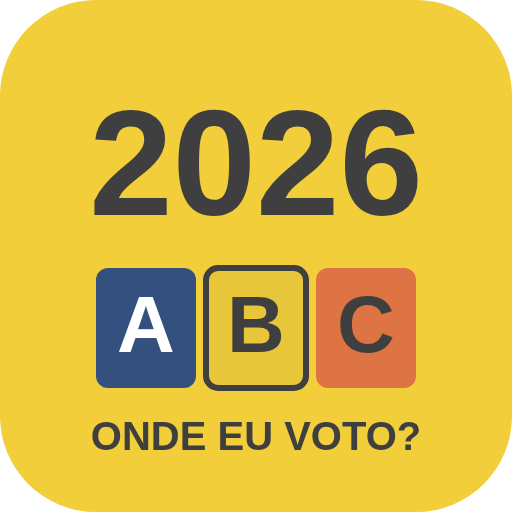
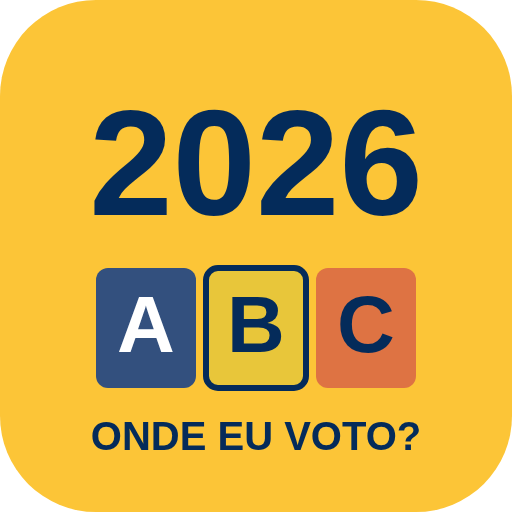
App: data DD/MM/AAAA nos dois menus e paleta Eleições 2026
- Campo de nascimento vira texto com máscara DD/MM/AAAA (aceita colar
  23101967 ou 23.10.1967) e mensagem própria para data inexistente.
- Página da equipe ganha o mesmo campo, opcional, que filtra a lista e
  separa homônimos.
- Paleta trocada para a identidade do TSE: fundo amarelo, navy em texto e
  botão, azuis em rótulos, laranja em erros, verde na faixa da equipe.
  Cores das portas A/B/C inalteradas. Ícones regerados.
- Ponta a ponta: 11 verificações, com data inválida e filtro por data.

Claude-Session: https://claude.ai/code/session_01Ev96h94nZK9u4NdguE3zDY

diff --git a/app/public/estilo.css b/app/public/estilo.css
@@ -1,67 +1,74 @@
+/* Paleta: identidade Eleições 2026 (TSE, Identidadevisual/). As cores das portas A/B/C
+   ficam em comum.js (COR_LETRA) e são as v2 das peças de sinalização: não mudar aqui. */
 :root {
-  --creme: #F2EFE2; --amarelo: #F2CE3A; --amarelo-escuro: #E8B800; --azul: #5A8CAA;
-  --verde: #648232; --cinza: #3F3F3F; --cinza-claro: #9A9483; --linha: #D9D4C4; --branco: #FFFFFF;
-  --erro: #B3261E;
+  --amarelo: #FCC537; --amarelo-claro: #FEE149; --amarelo-escuro: #EAB832; --laranja: #EF9A3E;
+  --azul-claro: #478BAD; --azul: #6486A7; --azul-escuro: #576C96; --navy: #042B5A;
+  --verde: #98BD31; --verde-escuro: #557372; --branco: #FFFFFF;
+  --texto: var(--navy); --texto-suave: #4A5F7A; --linha: #DCE3EC; --campo: #F4F7FA;
 }
 * { box-sizing: border-box; }
 html { -webkit-text-size-adjust: 100%; }
 body {
-  margin: 0; background: var(--creme); color: var(--cinza);
+  margin: 0; background: var(--amarelo); color: var(--texto);
   font-family: system-ui, -apple-system, "Segoe UI", Roboto, "Helvetica Neue", Arial, sans-serif;
   font-size: 17px; line-height: 1.45;
 }
-header.topo {
-  background: var(--amarelo); padding: 14px 16px 12px; display: flex; align-items: center; gap: 12px;
-}
-header.topo .marca { font-weight: 900; font-size: 22px; letter-spacing: .5px; line-height: 1; }
-header.topo .marca small { display: block; font-weight: 700; font-size: 12px; letter-spacing: 1px; color: #5F5A2E; margin-top: 3px; }
+header.topo { background: var(--amarelo); color: var(--navy); padding: 16px 16px 10px; display: flex; align-items: center; gap: 12px; }
+header.topo .marca { font-weight: 900; font-size: 24px; letter-spacing: .5px; line-height: 1; }
+header.topo .marca small { display: block; font-weight: 800; font-size: 12px; letter-spacing: 1.5px; color: var(--azul-claro); margin-top: 4px; }
 header.topo .onde { margin-left: auto; text-align: right; font-weight: 700; font-size: 14px; }
+header.topo.equipe { background: var(--navy); color: var(--amarelo); }
+header.topo.equipe .marca small { color: var(--branco); }
 main { max-width: 640px; margin: 0 auto; padding: 16px; }
-h1 { font-size: 26px; margin: 8px 0 4px; line-height: 1.15; }
-p.sub { margin: 0 0 16px; color: #5F5A4E; }
-form.consulta { background: var(--branco); border-radius: 12px; padding: 16px; box-shadow: 0 1px 3px rgba(0,0,0,.08); }
-label { display: block; font-weight: 700; font-size: 14px; margin: 10px 0 4px; }
-input[type=text], input[type=date], input[type=password], input[type=search] {
-  width: 100%; font: inherit; font-size: 18px; padding: 12px; border: 2px solid var(--linha); border-radius: 8px; background: #FFF; color: var(--cinza);
+h1 { font-size: 30px; margin: 8px 0 4px; line-height: 1.1; color: var(--navy); font-weight: 900; }
+p.sub { margin: 0 0 16px; color: var(--navy); }
+form.consulta { background: var(--branco); border-radius: 14px; padding: 16px; box-shadow: 0 2px 6px rgba(4,43,90,.15); }
+label { display: block; font-weight: 800; font-size: 14px; margin: 10px 0 4px; color: var(--navy); }
+input[type=text], input[type=password], input[type=search] {
+  width: 100%; font: inherit; font-size: 18px; padding: 12px; border: 2px solid var(--linha); border-radius: 8px; background: var(--campo); color: var(--navy);
 }
-input:focus { outline: none; border-color: var(--azul); }
+input::placeholder { color: #8A9AAE; }
+input:focus { outline: none; border-color: var(--azul-claro); background: var(--branco); }
 button.principal {
-  width: 100%; margin-top: 14px; font: inherit; font-weight: 800; font-size: 18px; padding: 14px;
-  background: var(--cinza); color: var(--branco); border: 0; border-radius: 8px; cursor: pointer;
+  width: 100%; margin-top: 14px; font: inherit; font-weight: 900; font-size: 18px; padding: 14px;
+  background: var(--navy); color: var(--branco); border: 0; border-radius: 8px; cursor: pointer;
 }
 button.principal:disabled { opacity: .5; }
-button.secundario { font: inherit; font-size: 14px; font-weight: 700; padding: 8px 12px; background: transparent; border: 2px solid var(--linha); border-radius: 8px; color: var(--cinza); cursor: pointer; }
-.dica { font-size: 14px; color: var(--cinza-claro); margin: 6px 0 0; }
-.aviso { background: #FFF3C4; border-left: 4px solid var(--amarelo-escuro); padding: 10px 12px; border-radius: 6px; margin: 14px 0; font-size: 15px; }
-.aviso.erro { background: #FBE9E7; border-color: var(--erro); }
-.aviso.info { background: #E3EEF5; border-color: var(--azul); }
+button.secundario { font: inherit; font-size: 14px; font-weight: 800; padding: 8px 12px; background: var(--branco); border: 2px solid var(--navy); border-radius: 8px; color: var(--navy); cursor: pointer; }
+.dica { font-size: 14px; color: var(--texto-suave); margin: 6px 0 0; }
+.aviso { background: var(--amarelo-claro); border-left: 5px solid var(--amarelo-escuro); color: var(--navy); padding: 10px 12px; border-radius: 8px; margin: 14px 0; font-size: 15px; }
+.aviso.erro { background: var(--branco); border-color: var(--laranja); }
+.aviso.info { background: var(--branco); border-color: var(--azul-claro); }
+.aviso a { color: var(--azul-claro); font-weight: 700; }
 #resultado { margin-top: 18px; }
-.cartao { background: var(--branco); border-radius: 12px; overflow: hidden; box-shadow: 0 1px 3px rgba(0,0,0,.08); border-top: 8px solid var(--cor); }
+.cartao { background: var(--branco); border-radius: 14px; overflow: hidden; box-shadow: 0 2px 6px rgba(4,43,90,.15); border-top: 8px solid var(--cor); }
 .cartao-letra { display: flex; align-items: center; gap: 16px; padding: 16px; background: var(--cor); color: var(--cor-texto); }
 .cartao-letra .letra { font-size: 72px; font-weight: 900; line-height: 1; width: 84px; text-align: center; }
 .cartao-letra .rotulo { opacity: .85; }
 .cartao-linha { display: grid; grid-template-columns: 1fr 1fr 1.4fr; gap: 12px; padding: 14px 16px; }
-.rotulo { font-size: 12px; text-transform: uppercase; letter-spacing: 1px; font-weight: 700; }
+.rotulo { font-size: 12px; text-transform: uppercase; letter-spacing: 1px; font-weight: 800; }
+.cartao-linha .rotulo { color: var(--azul); }
 .grande { font-size: 26px; font-weight: 900; line-height: 1.1; }
-.medio { font-size: 16px; font-weight: 700; line-height: 1.3; }
-.cartao-eleitor { padding: 12px 16px 0; font-size: 15px; }
+.medio { font-size: 16px; font-weight: 800; line-height: 1.3; }
+.cartao-eleitor { padding: 12px 16px 0; font-size: 15px; color: var(--navy); }
 .cartao-eleitor b { font-size: 18px; }
-ol.passos { list-style: none; counter-reset: passo; padding: 0; margin: 16px 0; }
-ol.passos li { counter-increment: passo; display: grid; grid-template-columns: 36px 1fr; gap: 4px 10px; padding: 10px 0; border-bottom: 1px solid var(--linha); }
-ol.passos li::before { content: counter(passo); grid-row: span 2; width: 30px; height: 30px; border-radius: 50%; background: var(--cinza); color: #FFF; font-weight: 800; display: flex; align-items: center; justify-content: center; }
-ol.passos li b { font-size: 13px; text-transform: uppercase; letter-spacing: .5px; color: var(--cinza-claro); }
-ol.passos li span { font-size: 16px; }
-.mapa { background: var(--branco); border-radius: 12px; padding: 8px; }
+ol.passos { list-style: none; counter-reset: passo; padding: 0 16px; margin: 16px 0; background: var(--branco); border-radius: 14px; box-shadow: 0 2px 6px rgba(4,43,90,.15); }
+ol.passos li { counter-increment: passo; display: grid; grid-template-columns: 36px 1fr; gap: 4px 10px; padding: 12px 0; border-bottom: 1px solid var(--linha); }
+ol.passos li:last-child { border-bottom: 0; }
+ol.passos li::before { content: counter(passo); grid-row: span 2; width: 30px; height: 30px; border-radius: 50%; background: var(--navy); color: var(--amarelo); font-weight: 900; display: flex; align-items: center; justify-content: center; }
+ol.passos li b { font-size: 13px; text-transform: uppercase; letter-spacing: .5px; color: var(--azul); }
+ol.passos li span { font-size: 16px; color: var(--navy); }
+.mapa { background: var(--branco); border-radius: 14px; padding: 8px; box-shadow: 0 2px 6px rgba(4,43,90,.15); }
 .mapa svg { width: 100%; height: auto; display: block; }
-.nota { font-size: 15px; background: #FFF; border-radius: 8px; padding: 10px 12px; }
-footer { max-width: 640px; margin: 24px auto; padding: 0 16px 32px; font-size: 13px; color: var(--cinza-claro); }
-footer a { color: var(--azul); }
+.nota { font-size: 15px; background: var(--branco); border-left: 5px solid var(--verde); border-radius: 8px; padding: 10px 12px; color: var(--navy); }
+footer { max-width: 640px; margin: 24px auto; padding: 0 16px 32px; font-size: 13px; color: var(--navy); }
+footer a { color: var(--navy); font-weight: 700; }
 .lista-equipe { list-style: none; padding: 0; margin: 12px 0; }
-.lista-equipe li { background: #FFF; border-radius: 8px; padding: 10px 12px; margin-bottom: 6px; display: grid; grid-template-columns: 1fr auto; gap: 4px 10px; align-items: center; cursor: pointer; border-left: 6px solid var(--linha); }
-.lista-equipe li .nome { font-weight: 800; }
-.lista-equipe li .meta { font-size: 14px; color: #5F5A4E; grid-column: 1; }
+.lista-equipe li { background: var(--branco); border-radius: 8px; padding: 10px 12px; margin-bottom: 6px; display: grid; grid-template-columns: 1fr auto; gap: 4px 10px; align-items: center; cursor: pointer; border-left: 6px solid var(--linha); }
+.lista-equipe li .nome { font-weight: 900; color: var(--navy); }
+.lista-equipe li .meta { font-size: 14px; color: var(--texto-suave); grid-column: 1; }
 .lista-equipe li .letra-mini { font-size: 22px; font-weight: 900; padding: 2px 10px; border-radius: 6px; grid-row: span 2; }
-.faixa-equipe { background: var(--cinza); color: #FFF; font-size: 13px; padding: 6px 16px; text-align: center; }
+.faixa-equipe { background: var(--verde-escuro); color: var(--branco); font-size: 13px; font-weight: 700; padding: 6px 16px; text-align: center; }
 @media (max-width: 400px) {
   .cartao-linha { grid-template-columns: 1fr 1fr; }
   .cartao-linha > :last-child { grid-column: span 2; }

diff --git a/app/public/comum.js b/app/public/comum.js
@@ -47,6 +47,20 @@ const OEV = (() => {
     return `${a}-${String(me).padStart(2, "0")}-${String(d).padStart(2, "0")}`;
   }
 
+  /* Máscara DD/MM/AAAA num <input type="text">: só dígitos, barras inseridas ao digitar; aceita colar 23101967 ou 23.10.1967. */
+  function mascaraData(el) {
+    const aplica = () => {
+      const d = el.value.replace(/\D/g, "").slice(0, 8);
+      let v = d;
+      if (d.length > 4) v = `${d.slice(0, 2)}/${d.slice(2, 4)}/${d.slice(4)}`;
+      else if (d.length > 2) v = `${d.slice(0, 2)}/${d.slice(2)}`;
+      if (v !== el.value) el.value = v;
+    };
+    el.addEventListener("input", aplica);
+    el.addEventListener("blur", aplica);
+    return el;
+  }
+
   function b64url(bytes) {
     let s = "";
     for (const b of new Uint8Array(bytes)) s += String.fromCharCode(b);
@@ -94,11 +108,12 @@ const OEV = (() => {
   }
 
   /* Busca da equipe: cada palavra digitada tem de aparecer como prefixo de alguma palavra do nome. */
-  function buscaEquipe(eleitores, texto, limite = 30) {
+  function buscaEquipe(eleitores, texto, limite = 30, dataISO = "") {
     const termos = normalizaNome(texto).split(" ").filter(Boolean);
-    if (!termos.length) return [];
+    if (!termos.length && !dataISO) return [];
     const achados = [];
     for (const e of eleitores) {
+      if (dataISO && e.d !== dataISO) continue;
       const palavras = e.n.split(" ");
       if (termos.every((t) => palavras.some((p) => p.startsWith(t)))) {
         achados.push(e);
@@ -137,12 +152,12 @@ const OEV = (() => {
     const X = (m) => M + m * s;
     const YH = (y) => M + (HALL_D - y) * s; // y do salão cresce para o norte
     const ringTop = M + (HALL_D + APRON) * s;
-    const cor = COR_LETRA[rota.letra], fraco = "#D9D4C4", texto = "#3F3F3F";
+    const cor = COR_LETRA[rota.letra], fraco = "#C9D6E3", texto = "#042B5A", suave = "#6486A7";
     const p = [];
     p.push(`<svg xmlns="http://www.w3.org/2000/svg" viewBox="0 0 ${W} ${H}" role="img" aria-label="Esquema do caminho até a seção ${rota.secao}">`);
     // Hall 2
     p.push(`<rect x="${X(0)}" y="${YH(HALL_D)}" width="${HALL_W * s}" height="${HALL_D * s}" fill="#FFFFFF" stroke="${texto}" stroke-width="1.5"/>`);
-    p.push(`<text x="${X(HALL_W / 2)}" y="${YH(HALL_D / 2)}" text-anchor="middle" font-size="11" fill="#9A9483">HALL 2</text>`);
+    p.push(`<text x="${X(HALL_W / 2)}" y="${YH(HALL_D / 2)}" text-anchor="middle" font-size="11" fill="${suave}">HALL 2</text>`);
     // paredes com mesas
     const paredes = {
       oeste: [X(0), YH(HALL_D), 6, HALL_D * s],
@@ -167,7 +182,7 @@ const OEV = (() => {
     const portas = { S2: [7.6, "saída", null], S4: [15.8, "A", "A"], S5: [22.0, "B", "B"], S6: [28.2, "C", "C"], S7: [33.0, "pref.", null], S8: [40.0, "saída", null] };
     for (const [id, [x, rot, letra]] of Object.entries(portas)) {
       const ativa = id === rota.porta;
-      const fill = ativa ? cor : letra ? "#F2EFE2" : fraco;
+      const fill = ativa ? cor : letra ? "#F4F7FA" : fraco;
       p.push(`<rect x="${X(x) - 6}" y="${YH(0) - 4}" width="12" height="8" fill="${fill}" stroke="${texto}" stroke-width="${ativa ? 1.5 : 0.5}"/>`);
       p.push(`<text x="${X(x)}" y="${YH(0) + 16}" text-anchor="middle" font-size="${ativa ? 11 : 8}" font-weight="${ativa ? 800 : 400}" fill="${texto}">${id} ${esc(rot)}</text>`);
     }
@@ -182,16 +197,16 @@ const OEV = (() => {
     p.push(`<rect x="${X(RING_X)}" y="${ringTop}" width="${RING_W * s}" height="${RING_D * s}" fill="#FFFFFF" stroke="${texto}" stroke-width="1.5" stroke-dasharray="4 3"/>`);
     for (const [letra, x] of Object.entries(zonaX)) {
       const ativa = letra === rota.letra;
-      p.push(`<rect x="${X(x)}" y="${ringTop}" width="${zonaLarg * s}" height="${(RING_D - 3) * s}" fill="${ativa ? cor : "#F2EFE2"}" fill-opacity="${ativa ? 0.9 : 1}" stroke="${fraco}"/>`);
+      p.push(`<rect x="${X(x)}" y="${ringTop}" width="${zonaLarg * s}" height="${(RING_D - 3) * s}" fill="${ativa ? cor : "#F4F7FA"}" fill-opacity="${ativa ? 0.9 : 1}" stroke="${fraco}"/>`);
       for (let i = 1; i < 6; i++) p.push(`<line x1="${X(x)}" x2="${X(x + zonaLarg)}" y1="${ringTop + i * ((RING_D - 3) * s) / 6}" y2="${ringTop + i * ((RING_D - 3) * s) / 6}" stroke="${ativa ? "#FFFFFF" : fraco}" stroke-opacity="0.6"/>`);
-      p.push(`<text x="${X(x + zonaLarg / 2)}" y="${ringTop + (RING_D - 3) * s / 2}" text-anchor="middle" dominant-baseline="middle" font-size="26" font-weight="800" fill="${ativa ? COR_TEXTO_LETRA[letra] : "#B8B29E"}">${letra}</text>`);
+      p.push(`<text x="${X(x + zonaLarg / 2)}" y="${ringTop + (RING_D - 3) * s / 2}" text-anchor="middle" dominant-baseline="middle" font-size="26" font-weight="800" fill="${ativa ? COR_TEXTO_LETRA[letra] : "#9DB0C4"}">${letra}</text>`);
     }
     // corredor de chegada (leste) e trecho de fundo
-    p.push(`<rect x="${X(RING_X + RING_W - 3)}" y="${ringTop}" width="${3 * s}" height="${RING_D * s}" fill="#F7F5EC"/>`);
-    p.push(`<rect x="${X(RING_X)}" y="${ringTop + (RING_D - 3) * s}" width="${RING_W * s}" height="${3 * s}" fill="#F7F5EC"/>`);
+    p.push(`<rect x="${X(RING_X + RING_W - 3)}" y="${ringTop}" width="${3 * s}" height="${RING_D * s}" fill="#EEF3F8"/>`);
+    p.push(`<rect x="${X(RING_X)}" y="${ringTop + (RING_D - 3) * s}" width="${RING_W * s}" height="${3 * s}" fill="#EEF3F8"/>`);
     p.push(`<path d="M ${X(RING_X + RING_W - 1.5)} ${ringTop + 4} L ${X(RING_X + RING_W - 1.5)} ${ringTop + (RING_D - 1.5) * s} L ${X(zx + zonaLarg / 2)} ${ringTop + (RING_D - 1.5) * s} L ${X(zx + zonaLarg / 2)} ${ringTop + (RING_D - 3) * s - 2}" stroke="${texto}" stroke-width="1.5" fill="none" stroke-dasharray="3 3"/>`);
     p.push(`<text x="${X(RING_X + RING_W - 1.5)}" y="${ringTop - 4}" text-anchor="middle" font-size="9" fill="${texto}">entrada ▼</text>`);
-    p.push(`<text x="${X(HALL_W / 2)}" y="${H - 6}" text-anchor="middle" font-size="9" fill="#9A9483">Ring 3 (pátio de fila) · esquema sem escala · norte para cima</text>`);
+    p.push(`<text x="${X(HALL_W / 2)}" y="${H - 6}" text-anchor="middle" font-size="9" fill="${suave}">Ring 3 (pátio de fila) · esquema sem escala · norte para cima</text>`);
     p.push(`</svg>`);
     return p.join("");
   }
@@ -238,7 +253,7 @@ const OEV = (() => {
     }
   }
 
-  return { normalizaNome, chavesNome, normalizaData, hashPublico, consultaPublica, decifraEquipe, buscaEquipe,
+  return { normalizaNome, chavesNome, normalizaData, mascaraData, hashPublico, consultaPublica, decifraEquipe, buscaEquipe,
            carregaJSON, esc, formataData, formataTitulo, desenhaMapa, renderRota, rotaDaSecao, registraSW, COR_LETRA };
 })();
 

diff --git a/app/public/equipe/index.html b/app/public/equipe/index.html
@@ -5,14 +5,14 @@
 <meta name="viewport" content="width=device-width, initial-scale=1">
 <title>Equipe · Onde eu voto? · Dublin 2026</title>
 <meta name="robots" content="noindex">
-<meta name="theme-color" content="#3F3F3F">
+<meta name="theme-color" content="#042B5A">
 <link rel="manifest" href="../manifest.webmanifest">
 <link rel="icon" href="../icones/icone.svg" type="image/svg+xml">
 <link rel="stylesheet" href="../estilo.css">
 </head>
 <body>
-<header class="topo" style="background:#3F3F3F;color:#FFF">
-  <div class="marca">ELEIÇÕES 2026<small style="color:#F2CE3A">EQUIPE · P0 E MESA</small></div>
+<header class="topo equipe">
+  <div class="marca">ELEIÇÕES 2026<small>EQUIPE · P0 E MESA</small></div>
   <div class="onde" id="onde">Dublin · RDS Hall 2</div>
 </header>
 <div class="faixa-equipe">Voluntário orienta, não decide: identificação é do mesário, com documento oficial com foto.</div>
@@ -35,6 +35,8 @@
     <form class="consulta" id="form-busca" autocomplete="off" onsubmit="return false">
       <label for="busca">Nome do eleitor (qualquer parte)</label>
       <input type="search" id="busca" autocapitalize="characters" autocorrect="off" spellcheck="false" placeholder="ex.: maria silva">
+      <label for="busca-data">Data de nascimento (opcional, separa homônimos)</label>
+      <input type="text" id="busca-data" inputmode="numeric" placeholder="DD/MM/AAAA" maxlength="10">
       <p class="dica" id="contagem"></p>
     </form>
     <ul class="lista-equipe" id="lista"></ul>
@@ -99,9 +101,11 @@
   }
 
   let ultimo = null;
-  $("busca").addEventListener("input", () => {
+  OEV.mascaraData($("busca-data"));
+  function busca() {
     const texto = $("busca").value;
-    const achados = OEV.buscaEquipe(eleitores, texto);
+    const dataISO = OEV.normalizaData($("busca-data").value);
+    const achados = OEV.buscaEquipe(eleitores, texto, 30, dataISO);
     $("lista").innerHTML = achados.map((e, i) => {
       const cor = OEV.COR_LETRA[(rotas.secoes[e.s] || {}).letra] || "#D9D4C4";
       return `<li data-i="${i}" style="border-left-color:${cor}"><span class="nome">${OEV.esc(e.o || e.n)}</span>
@@ -109,9 +113,11 @@
         <span class="meta">nasc. ${OEV.esc(OEV.formataData(e.d))} · seção ${OEV.esc(e.s)} · título ${OEV.esc(OEV.formataTitulo(e.t))}</span></li>`;
     }).join("");
     ultimo = achados;
-    $("contagem").textContent = texto.trim() ? (achados.length ? `${achados.length} resultado(s)${achados.length >= 30 ? " (mostrando os 30 primeiros; digite mais)" : ""}` : "Nenhum eleitor com esse nome. Confira a grafia ou use o e-Título.") : `${eleitores.length.toLocaleString("pt-BR")} eleitores na lista.`;
+    $("contagem").textContent = (texto.trim() || dataISO) ? (achados.length ? `${achados.length} resultado(s)${achados.length >= 30 ? " (mostrando os 30 primeiros; digite mais)" : ""}` : "Nenhum eleitor com esse nome. Confira a grafia ou use o e-Título.") : `${eleitores.length.toLocaleString("pt-BR")} eleitores na lista.`;
     if (achados.length === 1) mostraEleitor(achados[0]); else $("resultado").innerHTML = "";
-  });
+  }
+  $("busca").addEventListener("input", busca);
+  $("busca-data").addEventListener("input", busca);
   $("lista").addEventListener("click", (ev) => {
     const li = ev.target.closest("li[data-i]");
     if (li && ultimo) mostraEleitor(ultimo[+li.dataset.i]);

diff --git a/app/public/index.html b/app/public/index.html
@@ -5,7 +5,7 @@
 <meta name="viewport" content="width=device-width, initial-scale=1">
 <title>Onde eu voto? · Eleições 2026 · Dublin</title>
 <meta name="description" content="Descubra sua seção, sua fila e sua porta no RDS Hall 2 antes de sair de casa.">
-<meta name="theme-color" content="#F2CE3A">
+<meta name="theme-color" content="#FCC537">
 <link rel="manifest" href="./manifest.webmanifest">
 <link rel="icon" href="./icones/icone.svg" type="image/svg+xml">
 <link rel="apple-touch-icon" href="./icones/icone-192.png">
@@ -28,7 +28,7 @@
     <input type="text" id="nome" name="nome" autocapitalize="characters" autocorrect="off" spellcheck="false" required inputmode="text" placeholder="como está no título de eleitor">
     <p class="dica" id="dica-nome"></p>
     <label for="fator" id="rotulo-fator">Data de nascimento</label>
-    <input type="date" id="fator" name="fator" required min="1900-01-01" max="2010-12-31">
+    <input type="text" id="fator" name="fator" required inputmode="numeric" placeholder="DD/MM/AAAA" maxlength="10" autocomplete="bday">
     <button class="principal" id="botao" type="submit" disabled>Consultar</button>
   </form>
 
@@ -62,9 +62,9 @@
     $("link-etitulo").href = config.link_etitulo;
     $("rotulo-fator").textContent = config.rotulo_fator[indice.fator];
     if (indice.fator === "mae") {
-      const novo = document.createElement("input");
-      novo.type = "text"; novo.id = "fator"; novo.name = "fator"; novo.required = true; novo.autocapitalize = "characters";
-      $("fator").replaceWith(novo);
+      $("fator").placeholder = "nome completo da mãe"; $("fator").inputMode = "text"; $("fator").maxLength = 120; $("fator").autocapitalize = "characters";
+    } else {
+      OEV.mascaraData($("fator"));
     }
     if (versao) {
       $("versao").textContent = `Lista com ${versao.eleitores.toLocaleString("pt-BR")} eleitores · dados de ${new Date(versao.construido_em).toLocaleString("pt-BR")}`;
@@ -83,7 +83,8 @@
     try {
       const r = await OEV.consultaPublica(estado.indice, nome, fator);
       if (r.estado === "incompleto") {
-        mostra(`<div class="aviso erro">Preencha o nome completo e ${estado.config.rotulo_fator[estado.indice.fator].toLowerCase()}.</div>`);
+        const dataRuim = estado.indice.fator === "nascimento" && fator.trim() && !OEV.normalizaData(fator);
+        mostra(`<div class="aviso erro">${dataRuim ? `A data <b>${OEV.esc(fator)}</b> não existe. Escreva dia, mês e ano: DD/MM/AAAA.` : `Preencha o nome completo e ${estado.config.rotulo_fator[estado.indice.fator].toLowerCase()}.`}</div>`);
       } else if (r.estado === "nao_encontrado") {
         mostra(`<div class="aviso erro"><b>Não encontramos esse nome com essa ${estado.indice.fator === "nascimento" ? "data" : "informação"}.</b><br>
           Confira se digitou o nome completo como está no título (nome de casada, sobrenomes do meio) e a data certa.

diff --git a/docs/app/contexto.md b/docs/app/contexto.md
@@ -52,6 +52,16 @@ só em memória: busca por qualquer parte do nome, mostra homônimos com nascime
 **título** e seção, e a mesma rota. "Fechar a lista" descarrega. O service worker guarda
 tudo no aparelho na primeira visita; depois funciona sem rede.
 
+**Data de nascimento.** Campo de texto `DD/MM/AAAA` com máscara, nas duas páginas:
+obrigatório no eleitor; opcional na equipe, onde filtra a lista e separa homônimos
+sem olhar a data de cada candidato. Aceita colar `23101967` ou `23.10.1967`.
+
+**Paleta.** Identidade Eleições 2026 do TSE (`Identidadevisual/`): fundo amarelo
+`#FCC537`, texto e botão em navy `#042B5A`, azul `#478BAD`/`#6486A7` em rótulos,
+laranja `#EF9A3E` em erros, verde `#98BD31`/`#557372` em notas e na faixa da equipe.
+As cores das portas A/B/C são as v2 das peças (`comum.js`, `COR_LETRA`) e não mudam.
+Sem versão em inglês (decisão de 28/09).
+
 **Rótulos.** Por grupo de mesas (A1…C6) e por seção, nunca por número de mesa: regra do
 plano de sinalização. As letras A/B/C e as cores são as v2 das peças (A `#33507E`,
 B `#E8C63A`, C `#DE7343`).

diff --git a/CLAUDE.md b/CLAUDE.md
@@ -142,6 +142,8 @@ posto A1, e a campanha "descubra sua seção antes de sair de casa".
 - A normalização de nomes existe duas vezes, em `scripts/app_normaliza.py` e em
   `app/public/comum.js`. `python3 -m pytest app/testes` confere que são iguais. Mudou
   uma, mude a outra.
+- Paleta do app = identidade TSE 2026 (`app/public/estilo.css`, `:root`). As cores das
+  portas A/B/C em `comum.js` são as v2 das peças de sinalização: não mudar. Sem inglês.
 - Testar sempre com `app/testes/amostra_eleitores.csv` (sintética). Nunca com a lista de
   Berlim nem com qualquer lista real.
 
